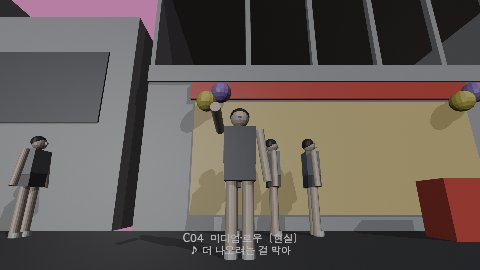
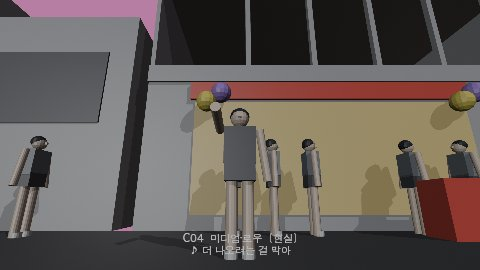
docs: 반값 치킨 16:9 프리비즈 — 모서리 시선 구도, 행인·시식 손님·차 반영

Changed region(s): [[0.75, 0.5037, 1.0, 0.8889], [0.75, 0.7407, 0.8125, 0.8]]

diff --git a/claude_skills_outputs/marketing/previz/build_previz_169.py b/claude_skills_outputs/marketing/previz/build_previz_169.py
@@ -242,7 +242,8 @@ for (cid, t0, t1, shot, ang, lyric, kind, cast, (cloc, ctgt, lens), sky) in CUTS
     if "PK" in cast and kind != "상상" and cid not in ("C23", "C24", "C25", "C26"):  # 현실=검은 옷, 상상·드롭=보라 옷
         cast = dict(cast); cast["PKB"] = cast.pop("PK")
     if cid in STREET:
-        cast = {**cast, **EXTRAS}
+        ex = {k: v for k, v in EXTRAS.items() if k in ("X1",)} if cid in ("C01", "C02") else EXTRAS  # 모서리 시선은 앞을 가리지 않게
+        cast = {**cast, **ex}
     cam_data = bpy.data.cameras.new(f"{cid}_cam"); cam_data.lens = lens; cam_data.sensor_fit = "VERTICAL"; cam_data.sensor_height = 36  # 세로판과 같은 세로 화각 유지
     cam = bpy.data.objects.new(f"{cid}_카메라", cam_data); sc.collection.objects.link(cam)
     cam.location = cloc
